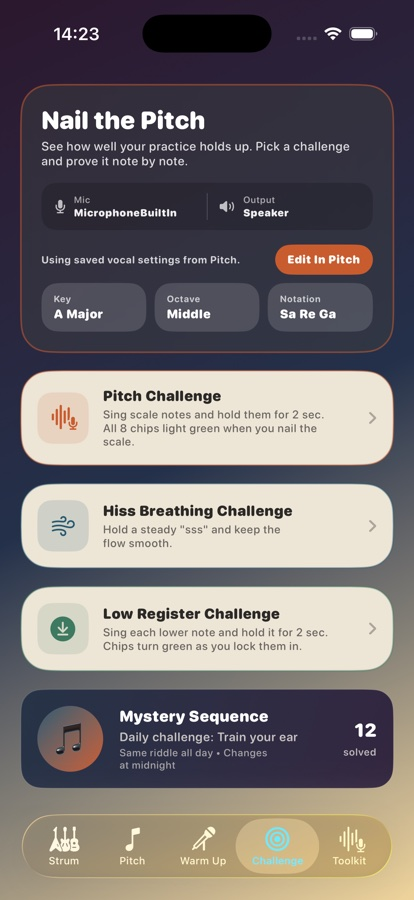
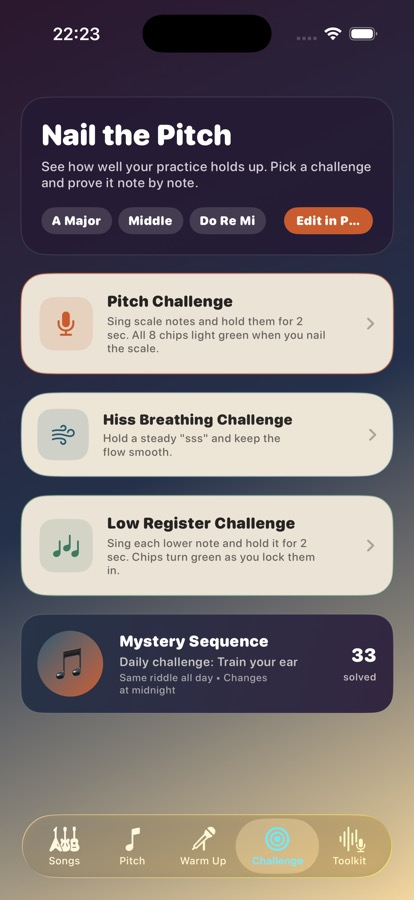
Update website for Songs and Toolkit

diff --git a/index.html b/index.html
@@ -4,10 +4,10 @@
   <meta charset="UTF-8" />
   <meta name="viewport" content="width=device-width, initial-scale=1.0" />
   <title>Strum &amp; Sing | Guitar, Voice &amp; Ear Training</title>
-  <meta name="description" content="Strum &amp; Sing is an iPhone practice app for guitar rhythm, guitar tuning, vocal warm ups, pitch feedback, Mystery Sequence ear training, and Toolkit drone practice." />
+  <meta name="description" content="Strum &amp; Sing is an iPhone practice app for songs, guitar rhythm, pitch setup, vocal warm ups, Mystery Sequence ear training, and Toolkit practice tools." />
   <meta property="og:title" content="Strum &amp; Sing" />
-  <meta property="og:description" content="Build rhythm. Tune your guitar. Find your pitch. Train your ear with Mystery Sequence." />
-  <meta property="og:image" content="assets/strum-studio.jpg" />
+  <meta property="og:description" content="Find songs you can play, practise the strum, warm up your voice, and train your ear with Mystery Sequence." />
+  <meta property="og:image" content="assets/songs.jpg" />
   <meta property="og:type" content="website" />
   <style>
     :root {
@@ -722,13 +722,13 @@
   <header class="hero">
     <div class="hero-media" aria-hidden="true">
       <div class="hero-shot one">
-        <img src="assets/strum-studio.jpg" alt="" />
+        <img src="assets/songs.jpg" alt="" />
       </div>
       <div class="hero-shot two">
         <img src="assets/challenge.jpg" alt="" />
       </div>
       <div class="hero-shot three">
-        <img src="assets/tanpura.jpg" alt="" />
+        <img src="assets/toolkit.jpg" alt="" />
       </div>
     </div>
 
@@ -736,12 +736,12 @@
       <div class="hero-content">
         <div class="eyebrow">Now on the App Store</div>
         <h1>Strum &amp; Sing</h1>
-        <p class="hero-copy">Build guitar rhythm, tune your instrument, find your home note, warm up your voice, and train your ear with daily Mystery Sequence challenges.</p>
+        <p class="hero-copy">Find songs you can play, practise the strum, tune your guitar, warm up your voice, and train your ear with daily Mystery Sequence challenges.</p>
         <div class="hero-actions">
           <a class="button button-primary" href="https://apps.apple.com/gb/app/strum-sing/id6762654476" target="_blank" rel="noopener">Download on the App Store</a>
           <a class="button button-secondary" href="#features">See what is inside</a>
         </div>
-        <p class="store-note">For iPhone. Designed for short daily guitar, voice, and ear-training sessions.</p>
+        <p class="store-note">For iPhone. Designed for short daily song, guitar, voice, and ear-training sessions.</p>
       </div>
     </div>
   </header>
@@ -749,12 +749,8 @@
   <section class="feature-strip" aria-label="App sections">
     <div class="wrap strip-grid">
       <div class="strip-item">
-        <strong>Strum</strong>
-        <span>Start with rhythm and add chords when the beat settles.</span>
-      </div>
-      <div class="strip-item">
-        <strong>Tuner</strong>
-        <span>Tune standard guitar strings with live mic feedback.</span>
+        <strong>Songs</strong>
+        <span>Choose a song and see chords, rhythm, and play-along guidance.</span>
       </div>
       <div class="strip-item">
         <strong>Pitch</strong>
@@ -770,7 +766,7 @@
       </div>
       <div class="strip-item">
         <strong>Toolkit</strong>
-        <span>Use the tanpura drone and Live Scale to find your notes.</span>
+        <span>Open Strum Studio, Live Scale, Sing &amp; Play, Tanpura, and Tuner.</span>
       </div>
     </div>
   </section>
@@ -779,40 +775,40 @@
     <div class="wrap">
       <div class="section-heading">
         <p class="section-kicker">Built for practice</p>
-        <h2 class="section-title">A simple loop for rhythm, tuning, pitch, and ear confidence.</h2>
-        <p class="section-copy">Strum &amp; Sing keeps each practice job focused: feel the beat, tune the guitar, set your scale, warm up, then use challenges to check whether the note is really there.</p>
+        <h2 class="section-title">A simple loop for songs, rhythm, tuning, pitch, and ear confidence.</h2>
+        <p class="section-copy">Strum &amp; Sing keeps each practice job focused: pick a song, practise the rhythm, tune the guitar, set your scale, warm up, then use challenges to check whether the note is really there.</p>
       </div>
 
       <div class="cards">
         <article class="feature-card">
           <span class="pill">01</span>
-          <h3>Strum Studio</h3>
-          <p>Start with one chord and a metronome, then add beginner-friendly chord changes as your rhythm improves.</p>
+          <h3>Songs</h3>
+          <p>Browse beginner-friendly songs with chords, suggested strumming patterns, tempo, capo notes, and a play-along grid.</p>
         </article>
         <article class="feature-card">
           <span class="pill">02</span>
-          <h3>Guitar tuner</h3>
-          <p>Listen through the mic, auto-recognize the nearest string, and see clear flat, sharp, and in-tune feedback.</p>
-        </article>
-        <article class="feature-card">
-          <span class="pill">03</span>
-          <h3>Scale setup</h3>
+          <h3>Pitch setup</h3>
           <p>Use Quick Detect or the guided flow to find your home note, then carry that scale into Warm Up and Challenge.</p>
         </article>
         <article class="feature-card">
-          <span class="pill">04</span>
+          <span class="pill">03</span>
           <h3>Warm ups</h3>
           <p>Practise scale notes, lower notes, and steady hiss breathing with microphone feedback and simple progress cues.</p>
         </article>
         <article class="feature-card">
+          <span class="pill">04</span>
+          <h3>Challenge</h3>
+          <p>Sing scale notes, work on breath control, practise lower notes, and solve the daily Mystery Sequence.</p>
+        </article>
+        <article class="feature-card">
           <span class="pill">05</span>
-          <h3>Mystery Sequence</h3>
-          <p>Hear short melodies, sing them back, use hints when needed, and reveal a music tip after each solved sequence.</p>
+          <h3>Toolkit</h3>
+          <p>Use Strum Studio, Live Scale, Sing &amp; Play, Tanpura, and Tuner when you want a focused practice tool.</p>
         </article>
         <article class="feature-card">
           <span class="pill">06</span>
-          <h3>Toolkit</h3>
-          <p>Use the tanpura drone and Live Scale to find your notes, with starter guidance beside the tools.</p>
+          <h3>Guitar tuner</h3>
+          <p>Check standard guitar strings with live mic feedback before you start playing.</p>
         </article>
       </div>
     </div>
@@ -821,17 +817,17 @@
   <section class="section deep">
     <div class="wrap story">
       <div class="story-text">
-        <p class="section-kicker">Strum Studio</p>
-        <h3>Lock in rhythm before you add more complexity.</h3>
-        <p>Start with a clean pattern, choose the practice sound you want, and follow the beat before adding more chords.</p>
+        <p class="section-kicker">Songs</p>
+        <h3>Start from music, then practise the pattern.</h3>
+        <p>Pick a song, see the chord shapes, follow the suggested rhythm, and use the play-along grid before putting it all together.</p>
         <ul class="bullets">
-          <li>Metronome speed with count, click, and strum sound controls.</li>
-          <li>Simple pattern choices so beginners are not overloaded.</li>
-          <li>Stroke guidance that shows hits and air motion clearly.</li>
+          <li>English and Bollywood song lists with beginner-friendly chord shapes.</li>
+          <li>Suggested strumming pattern, tempo, capo, and song-specific guidance.</li>
+          <li>Chord diagrams and play-along controls for focused practice.</li>
         </ul>
       </div>
       <div class="device-frame">
-        <img src="assets/strum-studio.jpg" alt="Strum Studio screen showing a strumming pattern and Start Strumming button" loading="lazy" />
+        <img src="assets/songs.jpg" alt="Songs tab showing song search, recent songs, chords, and suggested strumming patterns" loading="lazy" />
       </div>
     </div>
   </section>
@@ -890,7 +886,7 @@
         <article class="flow-step">
           <span>Step 4</span>
           <h3>Toolkit</h3>
-          <p>Use the tanpura drone and Live Scale after the note positions are familiar.</p>
+          <p>Open the right helper: Strum Studio, Live Scale, Sing &amp; Play, Tanpura, or Tuner.</p>
         </article>
       </div>
     </div>
@@ -919,16 +915,17 @@
     <div class="wrap story">
       <div class="story-text">
         <p class="section-kicker">Toolkit</p>
-        <h3>Practice with a steady home pitch when your ear is ready.</h3>
-        <p>The Toolkit area includes the tanpura drone and Live Scale, helping you find your notes against a steady home-pitch reference.</p>
+        <h3>Keep the focused tools close when practice needs them.</h3>
+        <p>Toolkit brings together Strum Studio, Live Scale, Sing &amp; Play, Tanpura, and Tuner so you can work on one practical problem at a time.</p>
         <ul class="bullets">
-          <li>Uses the scale saved in Pitch.</li>
-          <li>Starter guidance and practice support live beside the drone.</li>
-          <li>Live scale graph shows your voice moving through the notes.</li>
+          <li>Strum Studio keeps rhythm patterns, tempo, and audio layers in one place.</li>
+          <li>Live Scale and Tanpura use the scale saved in Pitch.</li>
+          <li>Sing &amp; Play helps you check whether guitar and voice stay in scale together.</li>
+          <li>Tuner helps you check the guitar before you play.</li>
         </ul>
       </div>
       <div class="device-frame">
-        <img src="assets/tanpura.jpg" alt="Toolkit screen showing the tanpura drone and live scale graph" loading="lazy" />
+        <img src="assets/toolkit.jpg" alt="Toolkit tab showing Strum Studio, Live Scale, Sing and Play, Tanpura, and Tuner cards" loading="lazy" />
       </div>
     </div>
   </section>
@@ -938,7 +935,7 @@
       <div class="cta-inner">
         <div>
           <h2>Start a focused practice session.</h2>
-          <p>Download Strum &amp; Sing on the App Store and use a few clear minutes each day to tune, strum, warm up, train pitch, and solve a Mystery Sequence.</p>
+          <p>Download Strum &amp; Sing on the App Store and use a few clear minutes each day to find a song, tune, strum, warm up, train pitch, and solve a Mystery Sequence.</p>
         </div>
         <a class="button button-primary" href="https://apps.apple.com/gb/app/strum-sing/id6762654476" target="_blank" rel="noopener">Download now</a>
       </div>
